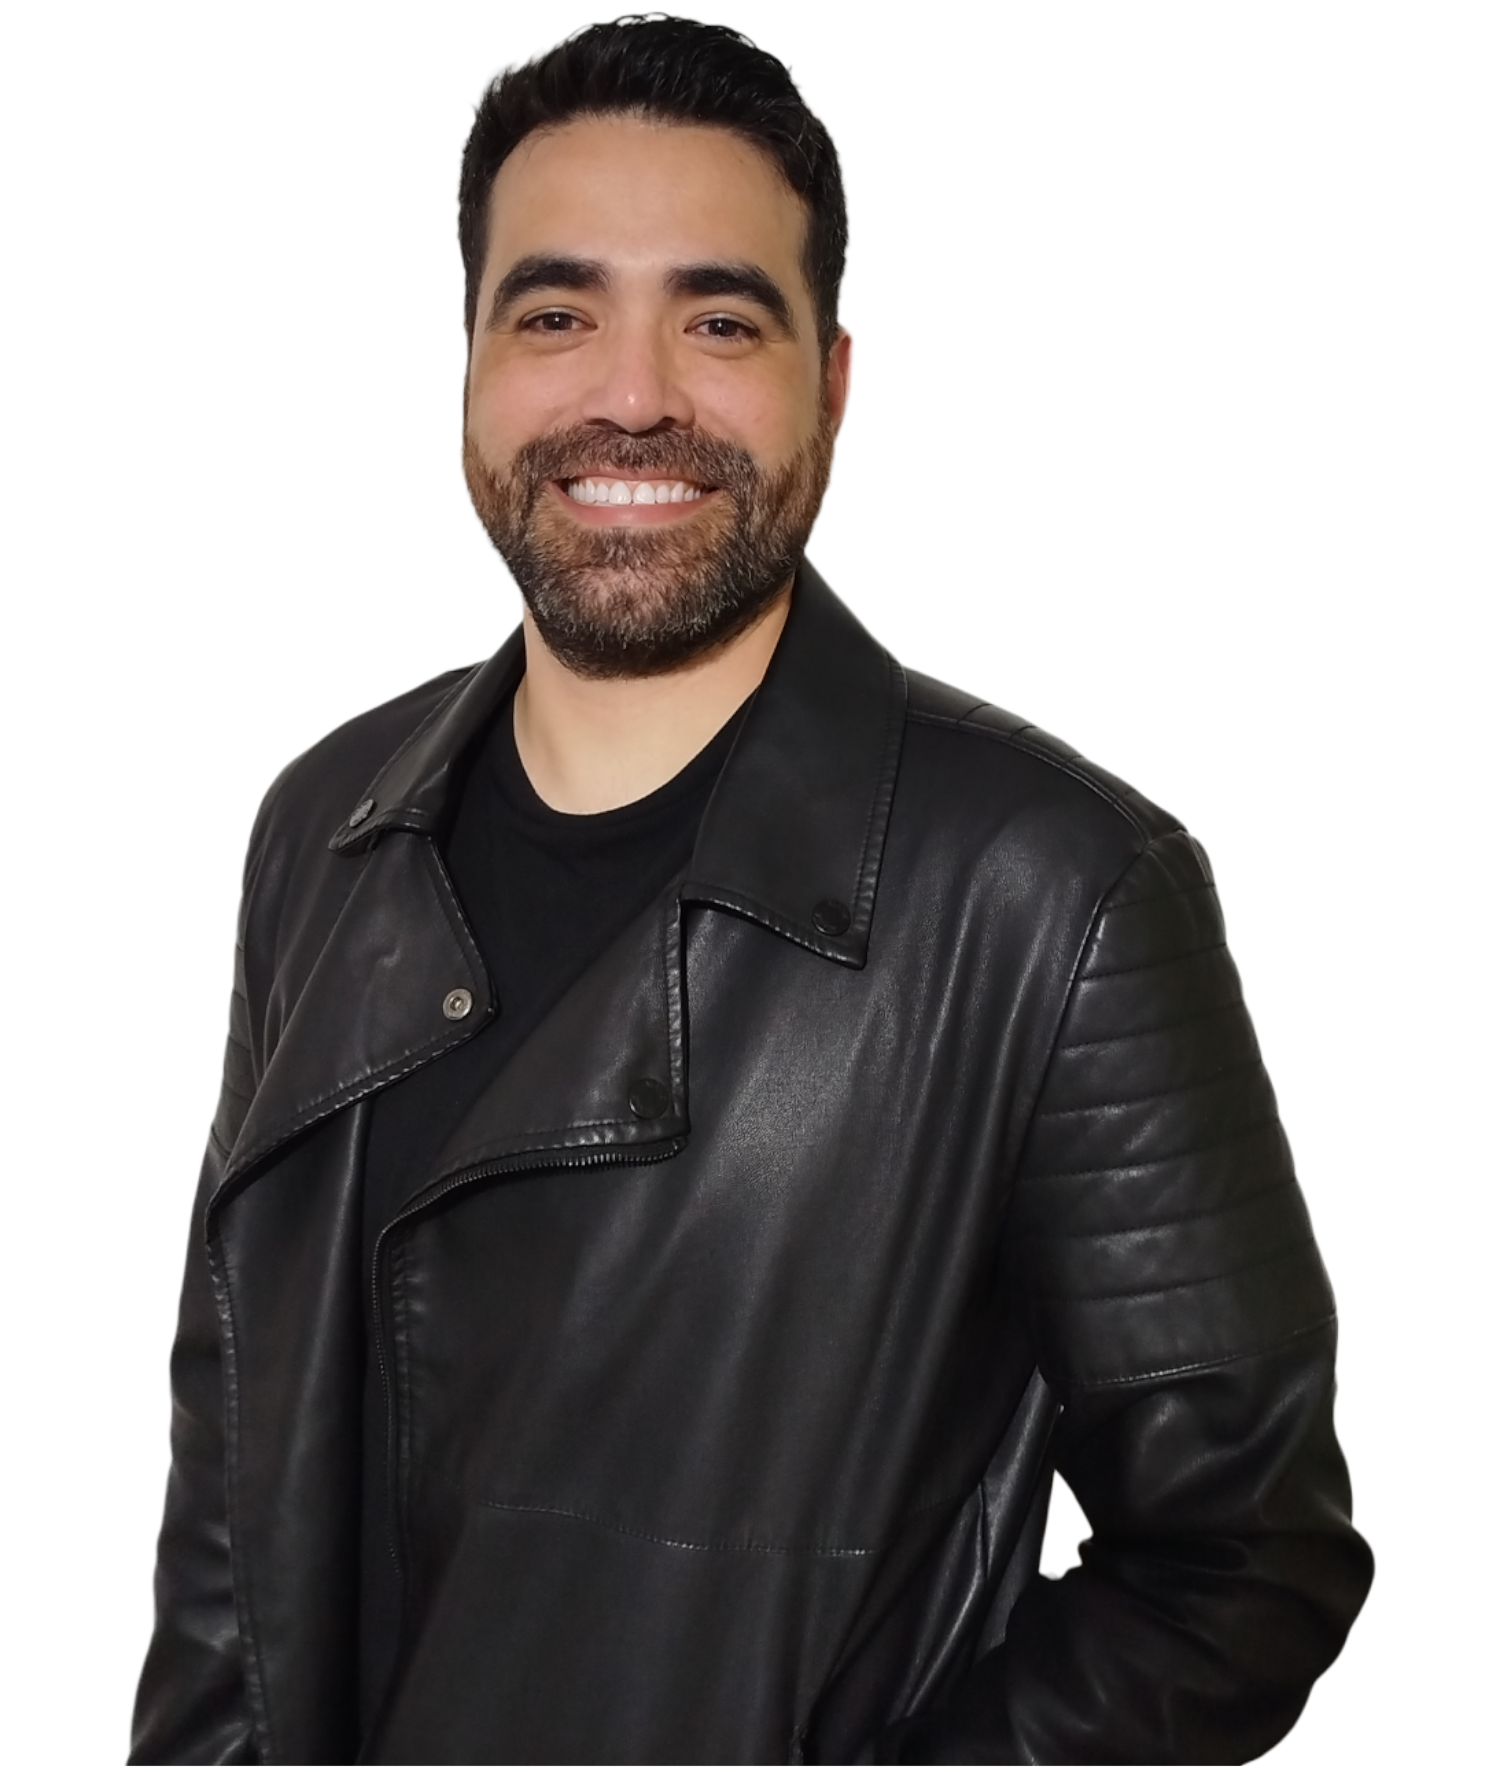
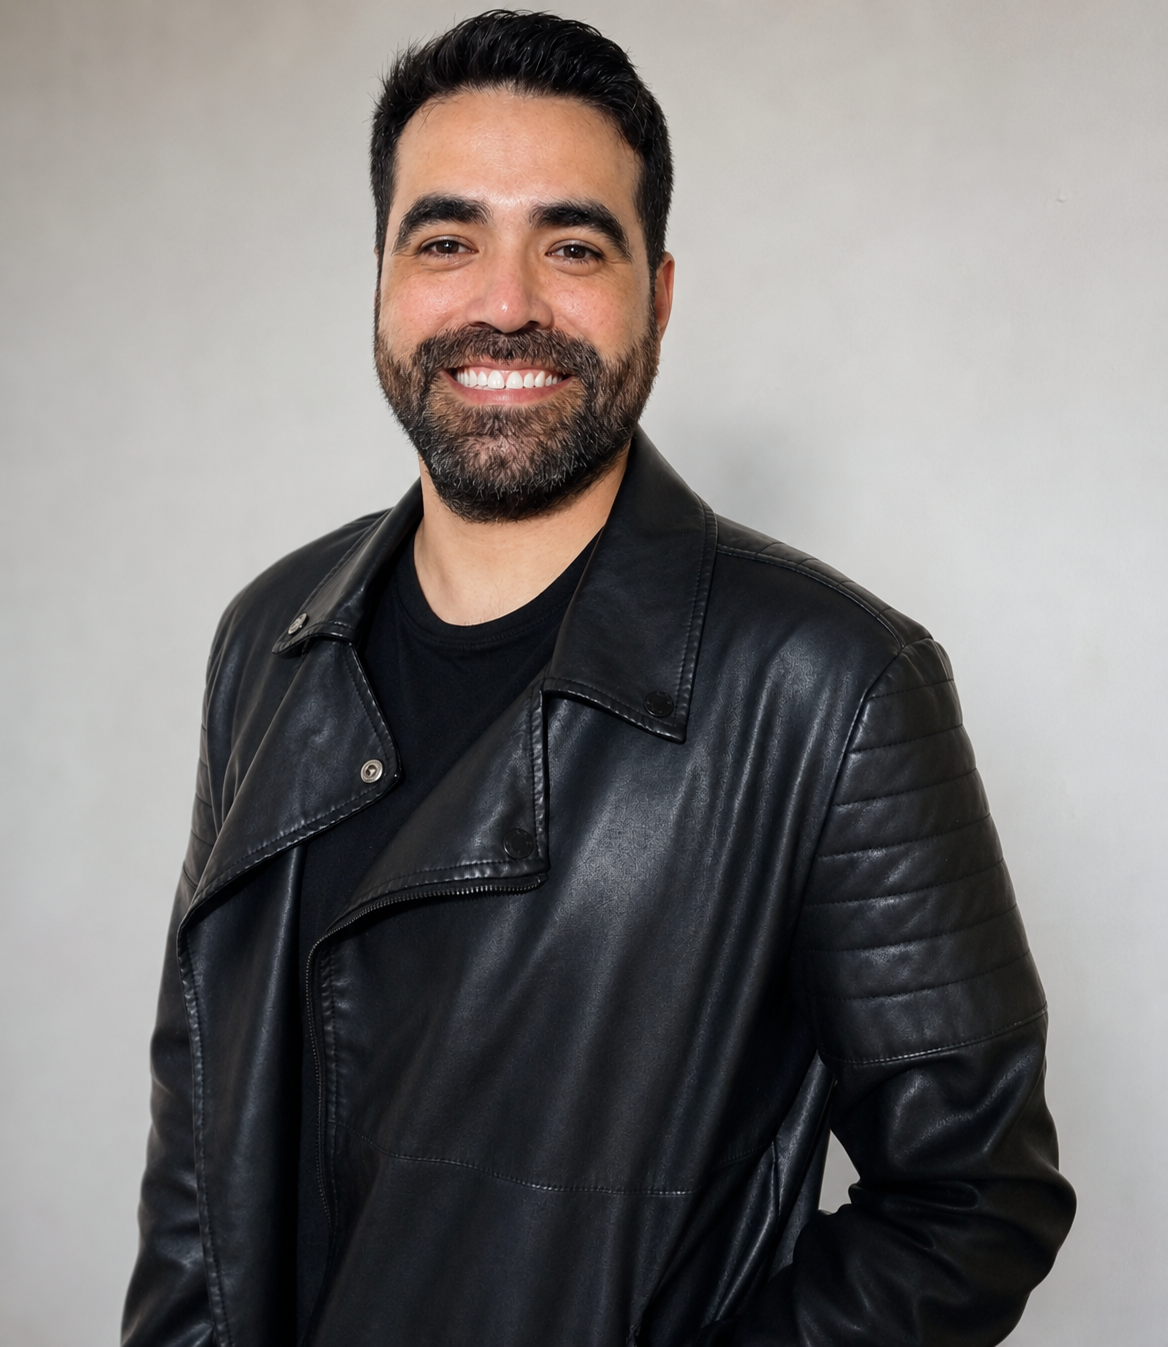
feat: update About component layout and add new profile image

diff --git a/src/components/About.tsx b/src/components/About.tsx
@@ -1,4 +1,4 @@
-import { Shield, Brain, Heart, Zap, Sparkles } from 'lucide-react';
+import { Sparkles } from 'lucide-react';
 
 export default function About() {
   return (
@@ -10,59 +10,38 @@ export default function About() {
       <div className="max-w-7xl mx-auto px-6 relative z-10">
         <div className="grid grid-cols-1 lg:grid-cols-12 gap-12 items-center">
           
-          {/* Left Column: Visual card display of his developer philosophy */}
-          <div className="lg:col-span-5 order-2 lg:order-1">
-            <div className="bg-slate-900 border border-slate-800 p-8 rounded-3xl relative overflow-hidden shadow-xl">
-              
-              {/* Card top flare */}
-              <div className="absolute top-0 right-0 w-32 h-32 bg-sky-500/10 rounded-full filter blur-[30px]" />
-              
-              <div className="flex items-center space-x-3 mb-6">
-                <div className="bg-sky-550/15 bg-sky-500/10 p-2.5 rounded-xl text-sky-400">
-                  <Sparkles className="w-5 h-5 animate-pulse-slow" />
-                </div>
-                <h3 className="font-display font-semibold text-white text-lg">Valores Técnicos</h3>
-              </div>
-
-              <div className="space-y-6">
-                <div className="flex items-start space-x-3.5">
-                  <div className="p-1.5 bg-slate-800 border border-slate-750 text-indigo-400 rounded-lg shrink-0 mt-0.5">
-                    <Shield className="w-4 h-4" />
-                  </div>
-                  <div>
-                    <h4 className="font-display font-medium text-slate-200 text-sm">Principios SOLID & Clean Code</h4>
-                    <p className="text-xs text-slate-400 mt-1 font-sans leading-relaxed">Código diseñado para el futuro. Desacoplado, explicativo y testeable para evitar deuda de software.</p>
-                  </div>
-                </div>
-
-                <div className="flex items-start space-x-3.5">
-                  <div className="p-1.5 bg-slate-800 border border-slate-750 text-emerald-400 rounded-lg shrink-0 mt-0.5">
-                    <Brain className="w-4 h-4" />
-                  </div>
-                  <div>
-                    <h4 className="font-display font-medium text-slate-200 text-sm">Mentalidad Multiplataforma</h4>
-                    <p className="text-xs text-slate-400 mt-1 font-sans leading-relaxed">Mismo ecosistema conceptual para web (React) y entornos nativos para teléfonos (Flutter).</p>
-                  </div>
-                </div>
-
-                <div className="flex items-start space-x-3.5">
-                  <div className="p-1.5 bg-slate-800 border border-slate-750 text-pink-400 rounded-lg shrink-0 mt-0.5">
-                    <Heart className="w-4 h-4" />
-                  </div>
-                  <div>
-                    <h4 className="font-display font-medium text-slate-200 text-sm">Enfoque UI/UX Pixel Perfect</h4>
-                    <p className="text-xs text-slate-400 mt-1 font-sans leading-relaxed">Detalles visuales minuciosos, espaciados consistentes y adaptabilidad estricta a todo tamaño de pantalla.</p>
-                  </div>
-                </div>
-
-                <div className="flex items-start space-x-3.5">
-                  <div className="p-1.5 bg-slate-800 border border-slate-750 text-amber-400 rounded-lg shrink-0 mt-0.5">
-                    <Zap className="w-4 h-4" />
-                  </div>
-                  <div>
-                    <h4 className="font-display font-medium text-slate-200 text-sm">Optimización de Rendimiento</h4>
-                    <p className="text-xs text-slate-400 mt-1 font-sans leading-relaxed">Carga instantánea, lazy loading inteligente, estados fluidos y optimización meticulosa del bundle.</p>
-                  </div>
+          {/* Left Column: Professional Photo Container */}
+          <div className="lg:col-span-5 order-2 lg:order-1 relative group flex justify-center">
+            {/* Soft glowing background element that is sensitive to hover */}
+            <div className="absolute -inset-1.5 bg-gradient-to-r from-sky-500 to-indigo-500 rounded-3xl blur-xl opacity-20 group-hover:opacity-35 transition duration-500" />
+            
+            {/* The core photo frame container with modern gradients */}
+            <div className="relative w-full max-w-[420px] aspect-[4/5] bg-gradient-to-tr from-sky-500/30 via-slate-800 to-indigo-500/30 p-[2px] rounded-3xl shadow-2xl overflow-hidden transition-all duration-500 group-hover:scale-[1.01] hover:shadow-sky-500/5">
+              <div className="relative w-full h-full bg-slate-900 rounded-[22px] overflow-hidden pt-4">
+                {/* Profile Image (easily replaceable by user later) */}
+                <img
+                  src="https://github.com/y3nn3rs0n/y3nn3rs0n.github.io/blob/main/assets/images/profile-p.png?raw=true"
+                  alt="Yennerson Olivo - Portrait Placeholder"
+                  referrerPolicy="no-referrer"
+                  className="w-full h-full object-cover object-top transition-all duration-700 ease-in-out scale-105 group-hover:scale-100"
+                />
+                
+                {/* Dark gradient gloss overlay to read labels cleanly */}
+                <div className="absolute inset-0 bg-gradient-to-t from-slate-950 via-slate-950/20 to-transparent opacity-90" />
+                
+                {/* Modern geometric decor: Glowing brackets */}
+                <span className="absolute top-4 left-4 w-4 h-4 border-t-2 border-l-2 border-sky-400/40 rounded-tl-sm pointer-events-none block" />
+                <span className="absolute top-4 right-4 w-4 h-4 border-t-2 border-r-2 border-indigo-400/40 rounded-tr-sm pointer-events-none block" />
+                <span className="absolute bottom-4 left-4 w-4 h-4 border-b-2 border-l-2 border-sky-400/40 rounded-bl-sm pointer-events-none block" />
+                <span className="absolute bottom-4 right-4 w-4 h-4 border-b-2 border-r-2 border-indigo-400/40 rounded-br-sm pointer-events-none block" />
+                {/* Elegant card information block */}
+                <div className="absolute bottom-6 inset-x-0 text-center px-4 space-y-1">
+                  <span className="font-mono text-[9px] tracking-widest text-sky-405 text-sky-400 uppercase font-bold block">
+                    Yennerson Olivo
+                  </span>
+                  <span className="text-[11px] text-slate-300 font-display font-medium block">
+                    Frontend & Mobile Specialist
+                  </span>
                 </div>
               </div>
             </div>